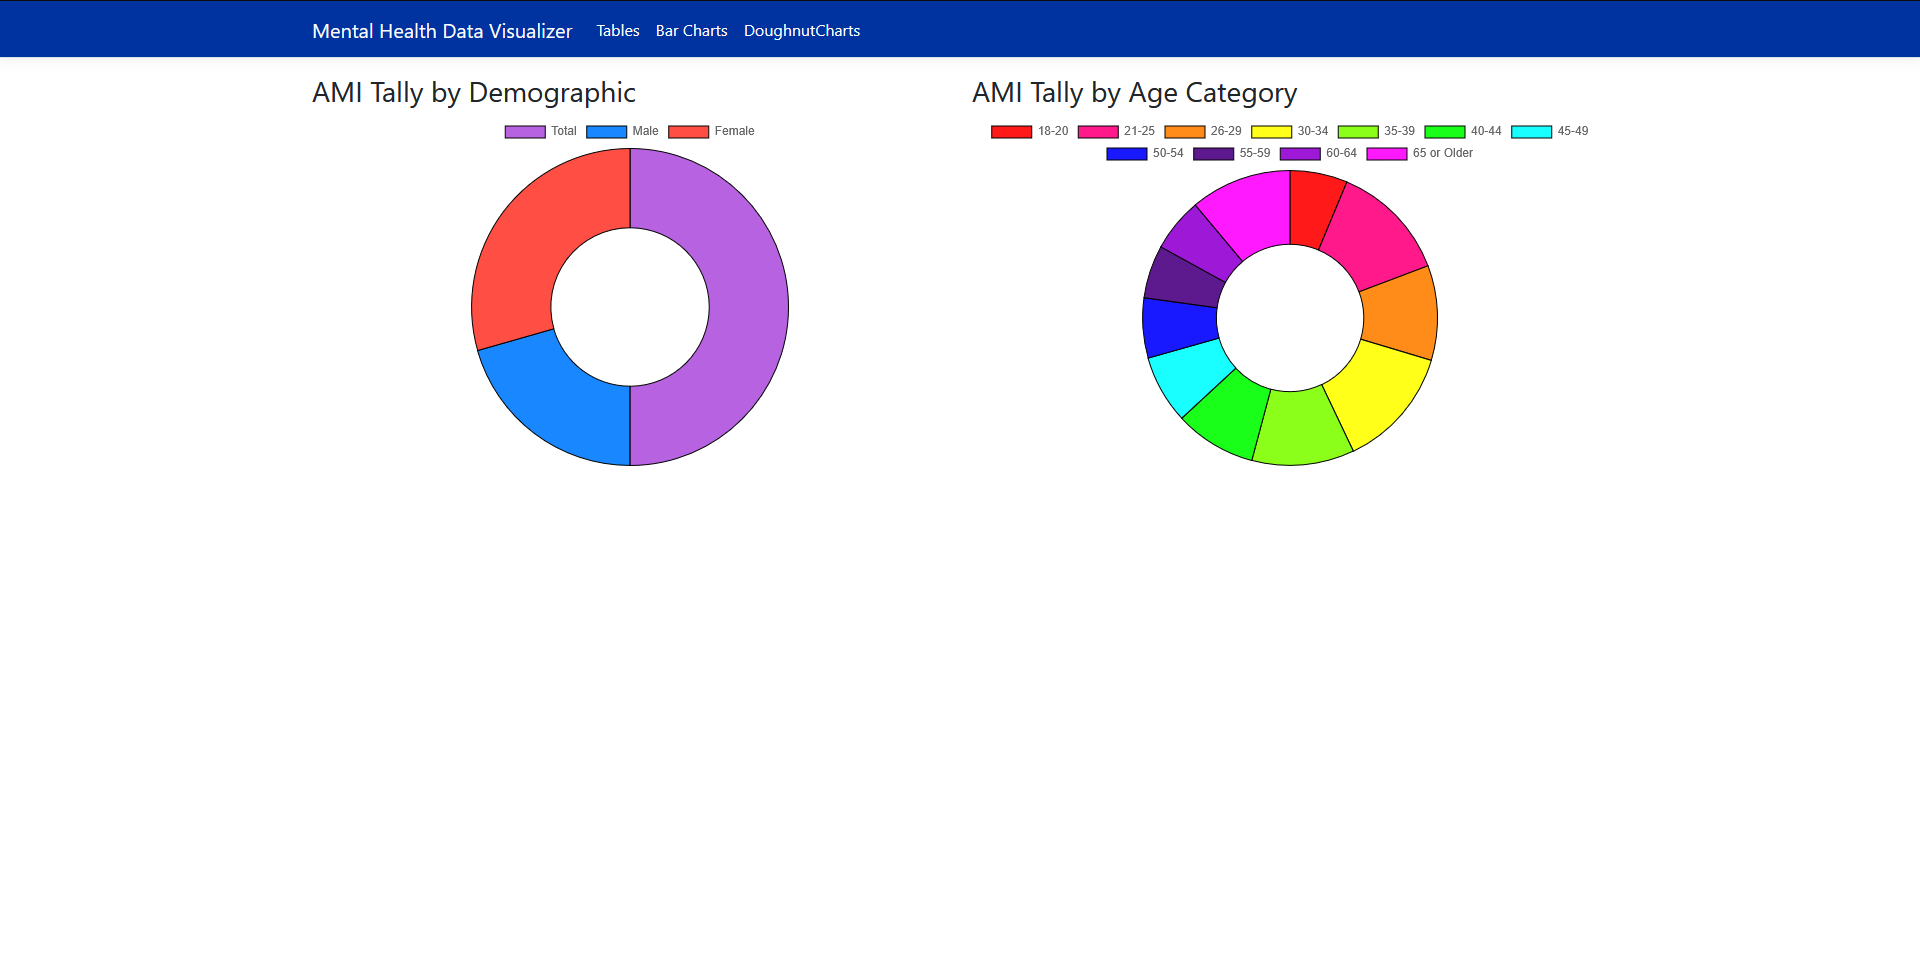
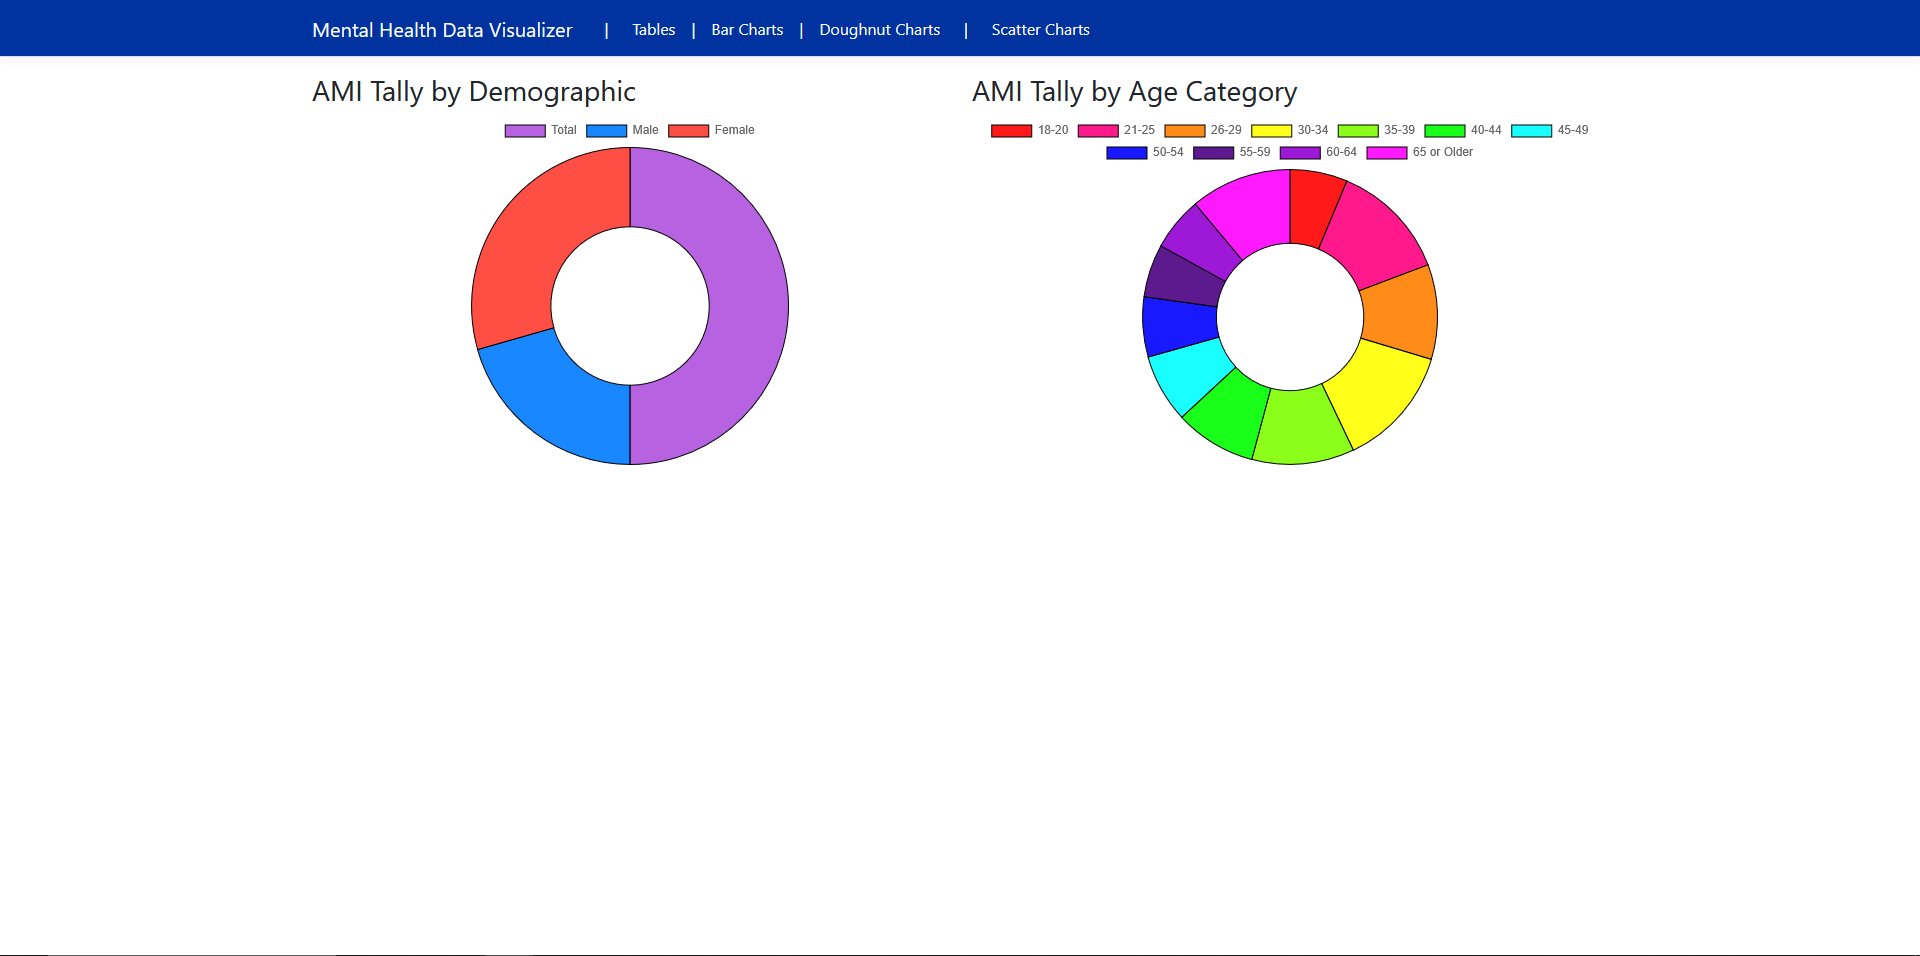
Add Scatter Charts and update screenshots

diff --git a/MentalHealthDataVisualizer/wwwroot/css/site.css b/MentalHealthDataVisualizer/wwwroot/css/site.css
@@ -33,3 +33,14 @@ body {
     color: black;
     text-decoration: none;
 }
+
+.link-divider {
+    margin: 0;
+    display: block;
+    padding: .5rem 1rem;
+    padding-right: 1rem;
+    padding-left: 1rem;
+    color: #0d6efd;
+    text-decoration: none;
+    color: white
+}

diff --git a/MentalHealthDataVisualizer/Models/ScatterChartsModel.cs b/MentalHealthDataVisualizer/Models/ScatterChartsModel.cs
@@ -1,0 +1,26 @@
+using Microsoft.AspNetCore.Mvc;
+using Microsoft.AspNetCore.Mvc.RazorPages;
+using Microsoft.EntityFrameworkCore;
+using MentalHealthDataVisualizer.Data;
+
+namespace MentalHealthDataVisualizer.Models
+{
+    public class ScatterChartsModel : PageModel
+    {
+        private readonly AppDbContext _context;
+
+        [BindProperty]
+        public IList<AmiPrevalence> AmiPrevalenceData { get; set; } = default!;
+
+        public ScatterChartsModel(AppDbContext context)
+        {
+            _context = context;
+        }
+
+        public async Task OnGetAsync()
+        {
+            if (_context.AmiPrevalence != null)
+                AmiPrevalenceData = await _context.AmiPrevalence.ToListAsync();
+        }
+    }
+}

diff --git a/MentalHealthDataVisualizer/Pages/ScatterCharts.cshtml.cs b/MentalHealthDataVisualizer/Pages/ScatterCharts.cshtml.cs
@@ -1,0 +1,12 @@
+using Microsoft.AspNetCore.Mvc;
+using Microsoft.AspNetCore.Mvc.RazorPages;
+
+namespace MentalHealthDataVisualizer.Pages
+{
+    public class ScatterChartsModel : PageModel
+    {
+        public void OnGet()
+        {
+        }
+    }
+}
